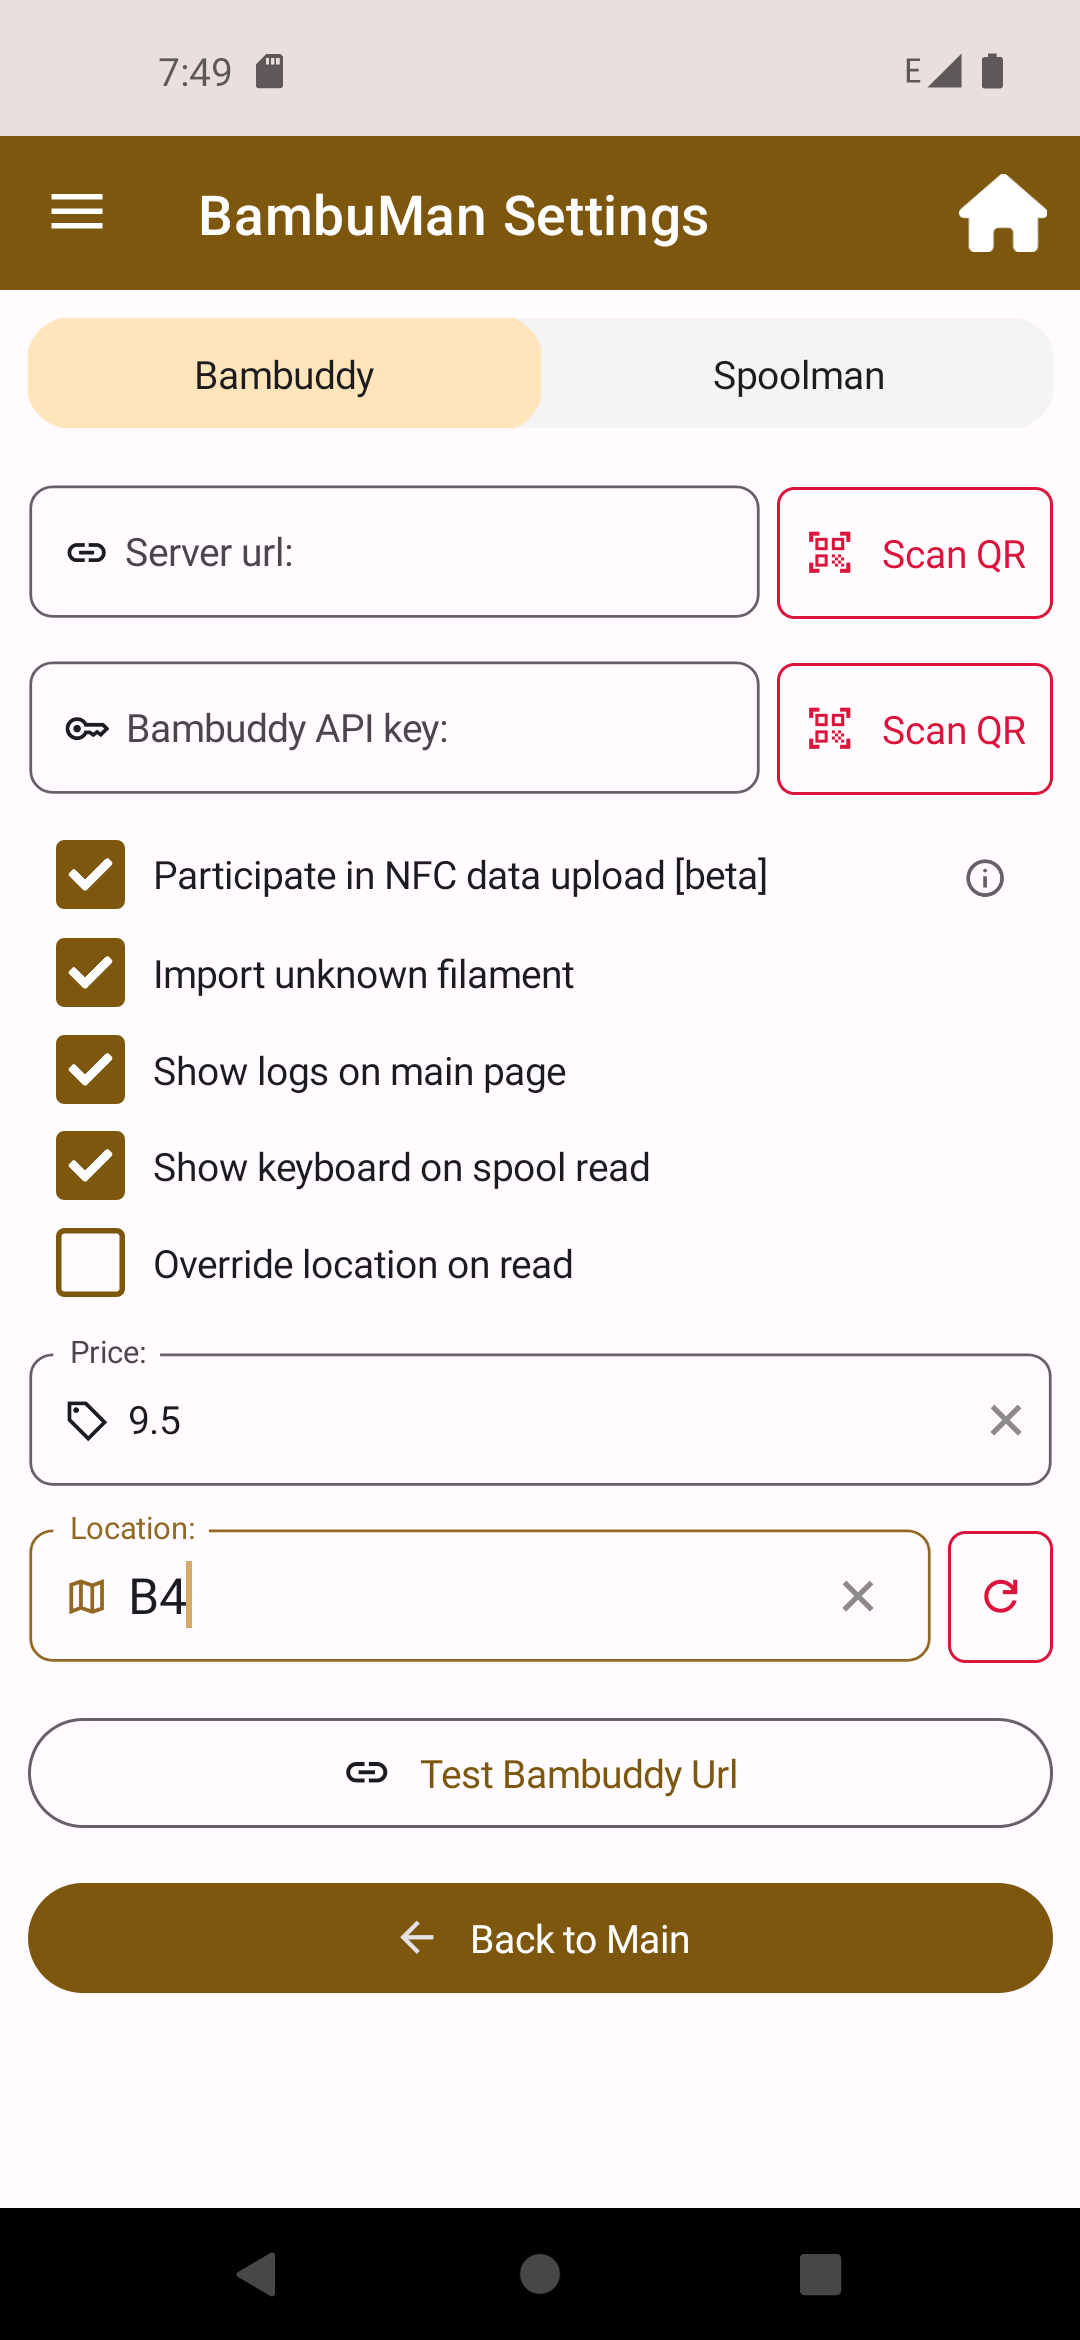
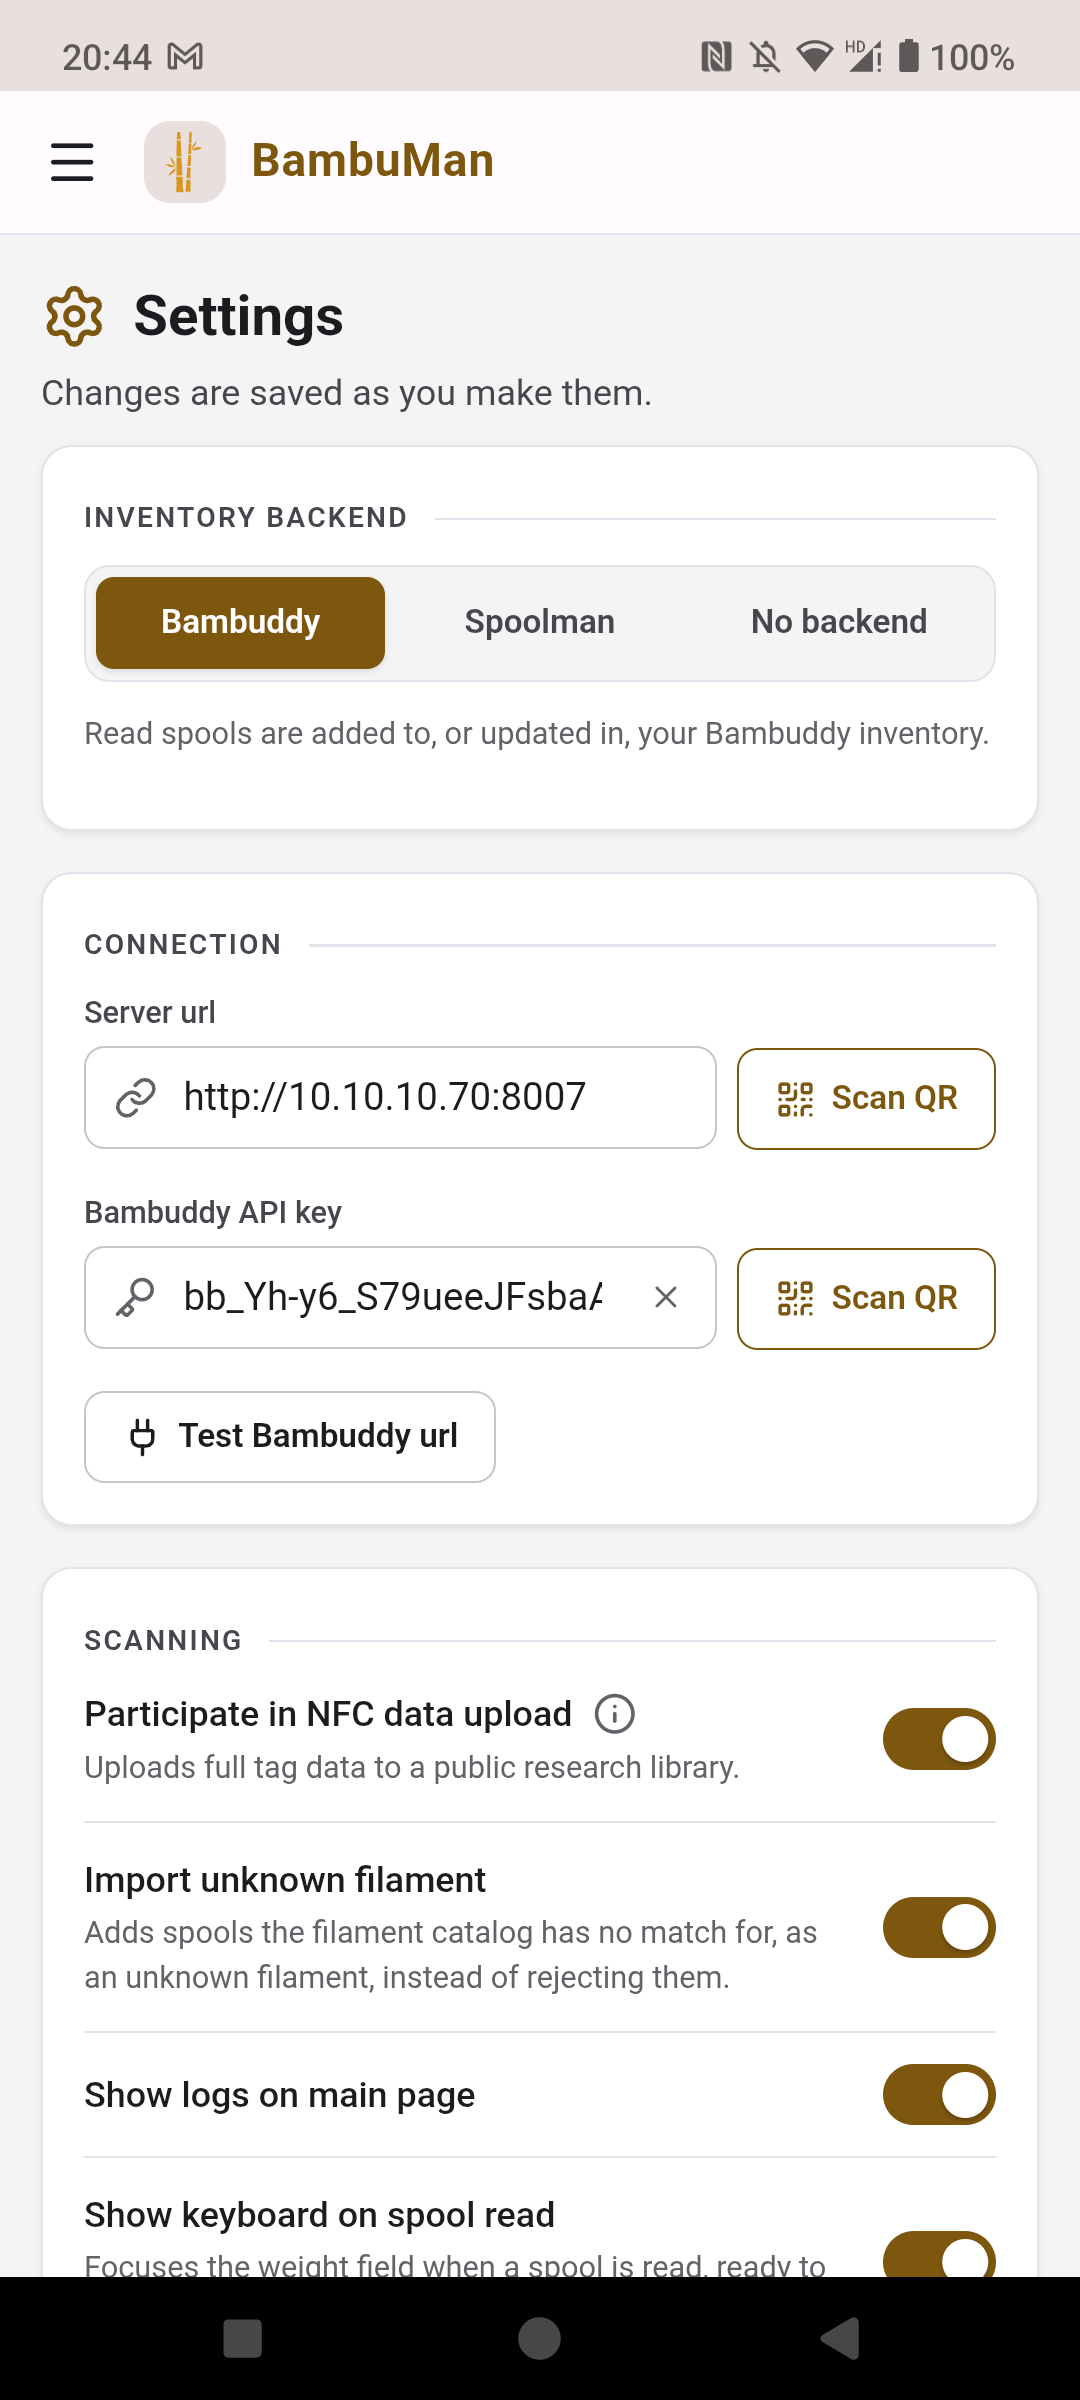
Update README screenshots for the Blazor UI
Replace the Android settings, logs and contribution popup screenshots, add the stored spools page and the scanning/import defaults settings.

diff --git a/README.md b/README.md
@@ -30,9 +30,9 @@ If you use [bambuddy](https://bambuddy.cool) ([GitHub](https://github.com/mazigg
 
  - **Android** application (your phone has to support `NFC`)
 
-   | Main | Settings | Logs | Research Data Contribution |
-   |:---:|:---:|:---:|:---:|
-   | <img src="screens/android_main.jpg" alt="Main page" width="200" /> | <img src="screens/android_settings_spoolman.png" alt="Settings page" width="200" /> | <img src="screens/android_logs.jpg" alt="Logs page" width="200" /> | <img src="screens/android_condribution_popup.jpg" alt="Research Data Contribution" width="200" /> |
+   | Main | Settings | Stored spools | Logs | Research Data Contribution |
+   |:---:|:---:|:---:|:---:|:---:|
+   | <img src="screens/android_main.jpg" alt="Main page" width="200" /> | <img src="screens/android_settings.png" alt="Settings page" width="200" /> | <img src="screens/android_stored_spools.png" alt="Stored spools page" width="200" /> | <img src="screens/android_logs.png" alt="Logs page" width="200" /> | <img src="screens/android_contribution_popup.png" alt="Research Data Contribution" width="200" /> |
 
  - **Windows** desktop application (a `PCSC` compatible `NFC` reader like [ACR122U](https://www.acs.com.hk/en/products/3/acr122u-usb-nfc-reader/) or [ACR1252U](https://www.acs.com.hk/en/products/342/acr1252u-usb-nfc-reader-iii-nfc-forum-certified-reader/) is needed)
 
@@ -56,7 +56,7 @@ The Android app can inventory into [bambuddy](https://bambuddy.cool). Pick the b
 
 3. In BambuMan settings, switch the backend to **bambuddy**, enter the bambuddy address (for example `http://host:8000`), then scan or paste the API key.
 
-	 <img src="screens/android_setting_bambuddy.png" alt="BambuMan bambuddy settings" width="200" />
+	 <img src="screens/android_setting_bambuddy.png" alt="BambuMan bambuddy settings" width="200" /> <img src="screens/android_settings_defaults.png" alt="BambuMan bambuddy scanning options and import defaults" width="200" />
 
 4. Go back to the main window. Once `Settings`, `bambuddy` and `NFC` are green, you can start reading `NFC` tags.
 
